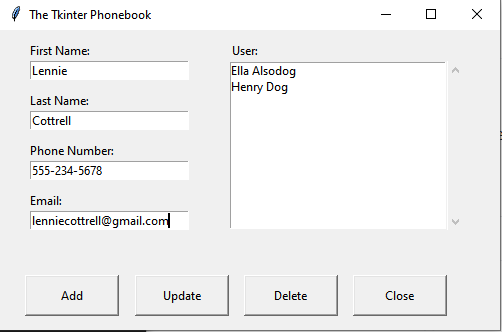
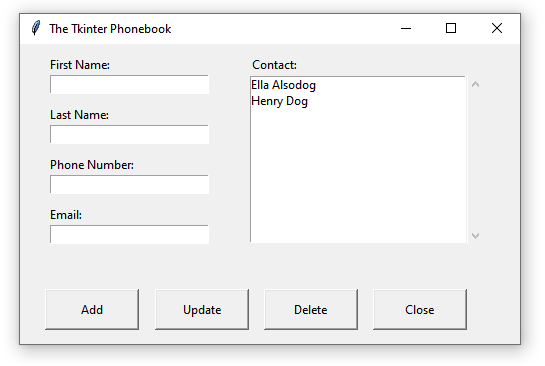
Updated photo

diff --git a/LRCphonebook_gui.py b/LRCphonebook_gui.py
@@ -15,7 +15,7 @@ def load_gui(self):
         self.lbl_phone.grid(row=4, column=0, padx=(27,0), pady=(10,0),sticky=N+W)
         self.lbl_email = tk.Label(self.master, text='Email: ')
         self.lbl_email.grid(row=6, column=0, padx=(27,0), pady=(10,0),sticky=N+W)
-        self.lbl_user = tk.Label(self.master, text='User: ')
+        self.lbl_user = tk.Label(self.master, text='Contact: ')
         self.lbl_user.grid(row=0, column=2, padx=(0,0), pady=(10,0),sticky=N+W)
 
         self.txt_fname = tk.Entry(self.master,text='')
